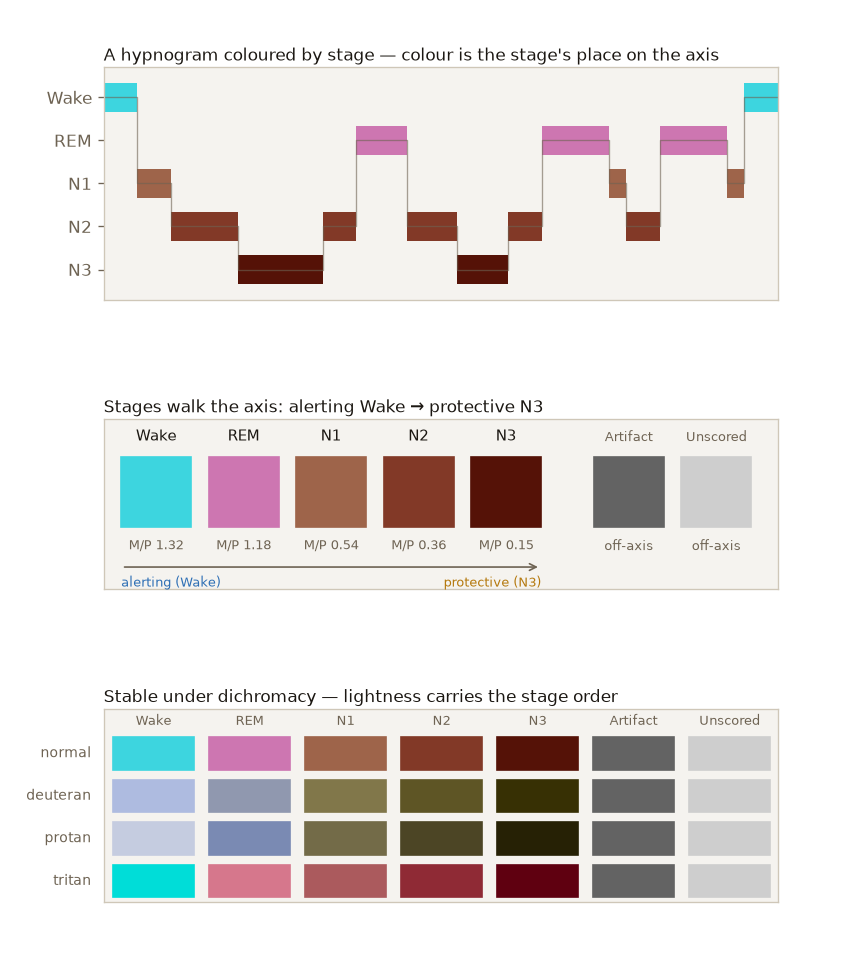
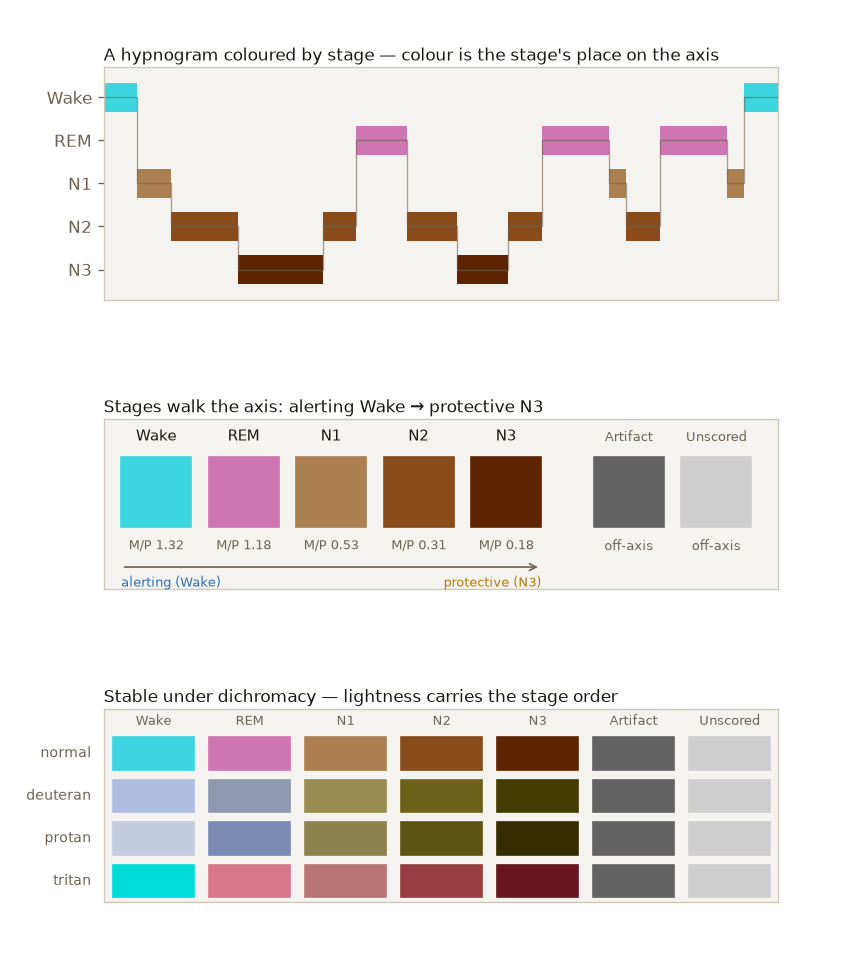
fix: recolor hypnogram NREM stages to a clean warm ramp
The N1/N2/N3 colours came off the family's own warm chroma and read as muddy dark
browns at the deep end. Replace with an explicit amber -> sienna -> rust ramp
(#ac7f50 / #8a4b1a / #5e2400) — richer and cleaner while keeping every invariant:
monotone lightness and melanopic ratio (Wake -> N3), 7-way CVD separation, deep = dark.

diff --git a/src/melanopy/hypnogram.py b/src/melanopy/hypnogram.py
@@ -36,16 +36,15 @@ from .generator import _CA, _L, _POS, _WA, _clamp
 
 HYPNOGRAM_STAGES = ["Wake", "REM", "N1", "N2", "N3"]
 
-# Per-stage (lightness, temperature) on the activation diagonal, temperature 0 (warm/protective) ..
-# 1 (cool/alerting): Wake light & alerting; N3 dark & protective; N1/N2/N3 clustered in temperature
-# near the protective end, told apart by lightness (which survives CVD).
-_SPINE = {
-    "Wake": (0.80, 1.00),
-    "N1": (0.56, 0.22),
-    "N2": (0.44, 0.12),
-    "N3": (0.30, 0.00),
-}
+_WAKE_LT = (0.80, 1.00)  # Wake: (lightness, temperature) at the family's light, cool, alerting end
 _REM_L, _REM_C, _REM_HUE = 0.68, 0.13, 340.0  # off-spine orchid, between Wake and N1 in activation
+# NREM: a clean warm ramp (amber -> sienna -> rust) as (L, C, hue), lightness falling with depth.
+# Kept off the family's own warm chroma so the deep end reads as rich rust, not a muddy brown.
+_NREM = {
+    "N1": (0.63, 0.085, 66),
+    "N2": (0.48, 0.105, 54),
+    "N3": (0.34, 0.100, 46),
+}
 _ARTIFACT_L, _UNSCORED_L = 0.50, 0.85  # out-of-band neutral greys (not stages)
 
 
@@ -64,11 +63,11 @@ def _hue_color(lightness, chroma, hue_deg):
 
 
 HYPNOGRAM = {
-    "Wake": to_hex(_spine_color(*_SPINE["Wake"])),
+    "Wake": to_hex(_spine_color(*_WAKE_LT)),
     "REM": to_hex(_hue_color(_REM_L, _REM_C, _REM_HUE)),
-    "N1": to_hex(_spine_color(*_SPINE["N1"])),
-    "N2": to_hex(_spine_color(*_SPINE["N2"])),
-    "N3": to_hex(_spine_color(*_SPINE["N3"])),
+    "N1": to_hex(_hue_color(*_NREM["N1"])),
+    "N2": to_hex(_hue_color(*_NREM["N2"])),
+    "N3": to_hex(_hue_color(*_NREM["N3"])),
     "Artifact": to_hex(_hue_color(_ARTIFACT_L, 0.0, 0.0)),
     "Unscored": to_hex(_hue_color(_UNSCORED_L, 0.0, 0.0)),
 }